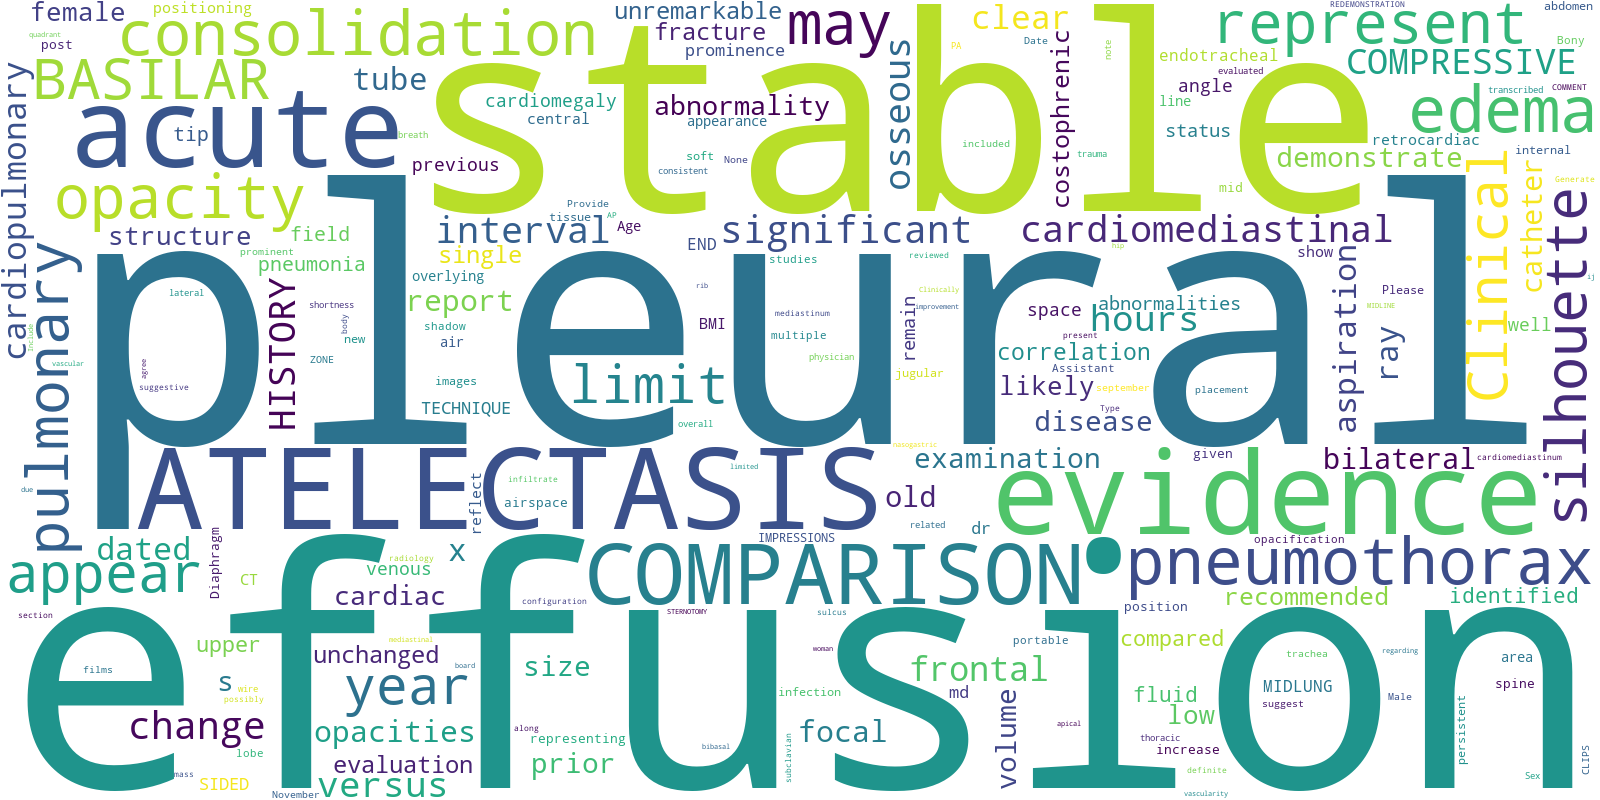
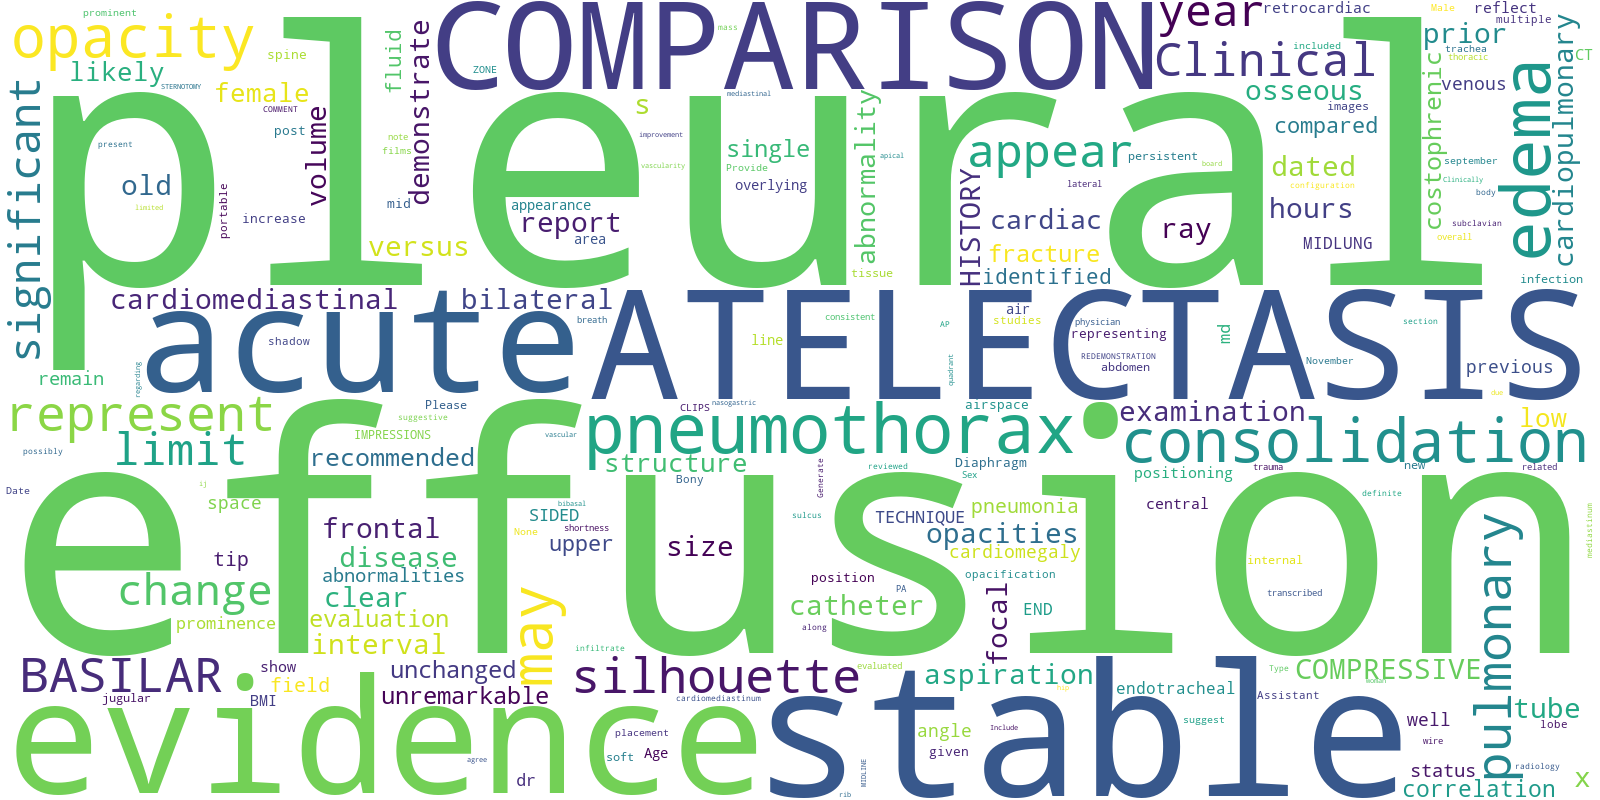
erros fixed

diff --git a/fast_api/susufDoctor_model.py b/fast_api/susufDoctor_model.py
@@ -1,7 +1,7 @@
 import os
-import requests
-import base64
+import torch
 import time
+from transformers import Idefics3ForConditionalGeneration, AutoProcessor
 from dotenv import load_dotenv
 
 from preprocessing import (
@@ -14,29 +14,48 @@ load_dotenv()
 
 HF_TOKEN = os.getenv("HF_TOKEN")
 MODEL_ID = os.getenv("MODEL_NAME", "Awinpang/smolvlm500-finetuned-xray")
-HF_API_URL = f"https://router.huggingface.co/hf-inference/models/{MODEL_ID}"
+
+_MODEL_CACHE = None
+_LOADING = False
 
 system_message = "You are an expert radiologist specialized in chest X-ray interpretation."
 
 
-def call_hf_inference(image_b64: str, prompt: str) -> dict:
-    """Call HuggingFace Inference API"""
-    headers = {"Authorization": f"Bearer {HF_TOKEN}"}
-    
-    payload = {
-        "inputs": {
-            "image": image_b64,
-            "text": prompt
-        }
-    }
-    
-    try:
-        response = requests.post(HF_API_URL, headers=headers, json=payload, timeout=120)
-        response.raise_for_status()
-        return response.json()
-    except requests.exceptions.RequestException as e:
-        return {"error": str(e)}
+# Load the model
+def load_model(token=HF_TOKEN):
+    global _MODEL_CACHE, _LOADING
 
+    if _MODEL_CACHE:
+        return _MODEL_CACHE
+
+    if _LOADING:
+        while _LOADING:
+            time.sleep(0.5)
+        return _MODEL_CACHE
+
+    try:
+        _LOADING = True
+        print("Loading SuSufDoctor model...")
+
+        model = Idefics3ForConditionalGeneration.from_pretrained(
+            MODEL_ID,
+            torch_dtype=torch.bfloat16,
+            device_map="auto",
+            token=token,
+        )
+
+        processor = AutoProcessor.from_pretrained(MODEL_ID, token=token)
+        model.eval()
+
+        _MODEL_CACHE = (processor, model)
+        print("Model ready.")
+        return _MODEL_CACHE
+
+    finally:
+        _LOADING = False
+
+
+# BUILD PROMPT
 
 def build_prompt(prior_text, age, sex, bmi, view_type):
     prior_clean = prior_text.strip() if prior_text.strip() else "No prior study available."
@@ -68,8 +87,9 @@ IMPRESSION:
 """.strip()
 
 
-# Inference via HuggingFace API
+#Inference
 def predict_report(
+    model_bundle,
     image,
     prior_text="",
     bmi="unknown",
@@ -80,9 +100,9 @@ def predict_report(
     temperature=0.3,
     top_p=0.8,
 ):
-    """Generate radiology report using HuggingFace Inference API"""
-    
-    print("Running SuSufDoctor inference via HF API...")
+    processor, model = model_bundle
+
+    print(" Running SuSufDoctor inference...")
     start = time.time()
 
     # Clean prior report
@@ -91,39 +111,60 @@ def predict_report(
 
     # Build prompt
     prompt = build_prompt(prior_text, age, sex, bmi, view_type)
-    
-    # Convert image to base64
-    if isinstance(image, bytes):
-        image_b64 = base64.b64encode(image).decode('utf-8')
-    else:
-        # If PIL Image, convert to bytes first
-        from io import BytesIO
-        buffer = BytesIO()
-        image.save(buffer, format="PNG")
-        image_b64 = base64.b64encode(buffer.getvalue()).decode('utf-8')
 
-    # Call HuggingFace API
-    result = call_hf_inference(image_b64, prompt)
-    
-    if "error" in result:
-        return {
-            "full_text": f"Error: {result['error']}",
-            "raw": result.get('error', 'Unknown error'),
-            "mode": "error"
-        }
-    
-    # Extract generated text
-    if isinstance(result, list) and len(result) > 0:
-        raw = result[0].get("generated_text", "")
-    else:
-        raw = result.get("generated_text", "")
-    
-    # Apply preprocessing
+    messages = [
+        {
+            "role": "system",
+            "content": [{"type": "text", "text": system_message}],
+        },
+        {
+            "role": "user",
+            "content": [
+                {"type": "text", "text": prompt},
+                {"type": "image", "image": image},   
+            ],
+        },
+    ]
+
+    # Chat template 
+    prompt_text = processor.apply_chat_template(
+        messages,
+        add_generation_prompt=True,
+        tokenize=False,
+    )
+
+    # Convert to tensors
+    inputs = processor(
+        text=prompt_text,
+        images=[image],  
+        return_tensors="pt",
+        padding=True,
+    ).to(model.device)
+
+    # Generate
+    with torch.no_grad():
+        output_ids = model.generate(
+            **inputs,
+            max_new_tokens=max_new_tokens,
+            temperature=temperature,
+            do_sample=True,
+            top_p=top_p,
+            top_k=50,
+            repetition_penalty=1.18,
+            pad_token_id=processor.tokenizer.eos_token_id,
+            eos_token_id=processor.tokenizer.eos_token_id,
+        )
+
+    # Decode new tokens only
+    prompt_len = inputs["input_ids"].shape[1]
+    new_tokens = output_ids[0, prompt_len:]
+    raw = processor.decode(new_tokens, skip_special_tokens=True).strip()
+
+    # Cleanup
     cleaned = clean_generated_report(raw)
     cleaned = fix_clinical_phrasing(cleaned)
 
-    elapsed = time.time() - start
-    print(f"Done in {elapsed:.1f}s — length: {len(cleaned)} chars")
+    print(f"Done in {time.time() - start:.1f}s — length: {len(cleaned)} chars")
 
     return {
         "full_text": cleaned,

diff --git a/fast_api/main.py b/fast_api/main.py
@@ -4,7 +4,7 @@ from dotenv import load_dotenv
 import os
 
 from dependencies import initialize_gcloud
-from routers import auth_routes, predict_routes, patient_routes, analytics_routes, predict_ws
+from routers import auth_routes, predict_routes, patient_routes, analytics_routes,predict_ws
 
 
 # Load environment variables first
@@ -55,34 +55,35 @@ async def health_check():
 
 @app.on_event("startup")
 async def startup_event():
-    print("=" * 60)
     print("Starting up SuSufDoctor API...")
     print(f"Allowed Origins: {origins}")
-    print("✓ Using HuggingFace Inference API (no local model loading)")
-    print("=" * 60)
-    
-    # Initialize Google Cloud in background (optional)
+
+    # Initialize Google Cloud
     try:
-        print("Initializing Google Cloud in background...")
         initialize_gcloud()
-        print("✓ Google Cloud initialized successfully")
+        print("Google Cloud initialized successfully")
     except Exception as e:
-        print(f"⚠ Google Cloud init warning: {e}")
+        print(f"Google Cloud init warning: {e}")
+
+    # Pre-load ML model for performance
+    try:
+        from routers.predict_routes import get_model
+        print("Pre-loading ML model...")
+        model = get_model()
+        print("ML model loaded and cached successfully")
+    except Exception as e:
+        print(f"Model pre-load warning: {e}")
 
 
 # Register Routers
 app.include_router(auth_routes.router, tags=["Authentication"])
 app.include_router(predict_routes.router, tags=["Predictions"])
-app.include_router(predict_ws.router, tags=["Prediction WebSocket"])
+app.include_router(predict_ws.router, tags=["Prediction WebSocket"]) 
 app.include_router(patient_routes.router, tags=["Patients"])
 app.include_router(analytics_routes.router, tags=["Analytics"])
 
 
 if __name__ == "__main__":
     import uvicorn
-    print("=" * 50)
-    print("FastAPI app is starting up...")
-    print("=" * 50)
-    port = int(os.environ.get("PORT", 8080))
-    print(f"Listening on port {port}")
+    port = int(os.environ.get("PORT", 8000))
     uvicorn.run("main:app", host="0.0.0.0", port=port)

diff --git a/fast_api/routers/predict_routes.py b/fast_api/routers/predict_routes.py
@@ -4,25 +4,26 @@ from datetime import datetime
 from google.cloud import firestore, storage
 
 from dependencies import verify_token, get_firestore, get_storage_bucket
-from susufDoctor_model import predict_report
+from susufDoctor_model import load_model
 from services.new_report_service import handle_new_report_mode
 from services.edit_report_service import handle_edit_mode
 
 router = APIRouter(prefix="/predict", tags=["Prediction"])
 
+def get_model():
+    return load_model()
 
 @router.get("/health")
 async def health_check():
-    """Health check - no model loading needed with HF API"""
     try:
+        model_bundle = get_model()
         return {
             "status": "healthy",
-            "model": "HuggingFace Inference API",
+            "model_loaded": model_bundle is not None,
             "timestamp": datetime.now().isoformat()
         }
     except Exception as e:
         return JSONResponse({"status": "unhealthy", "error": str(e)}, status_code=500)
-
 
 @router.post("")
 async def predict(

diff --git a/fast_api/routers/predict_ws.py b/fast_api/routers/predict_ws.py
@@ -5,7 +5,9 @@ from datetime import datetime, timedelta
 from PIL import Image
 from fastapi import APIRouter, WebSocket, WebSocketDisconnect
 
+from routers.predict_routes import get_model
 from susufDoctor_model import predict_report
+
 from google.cloud import storage, firestore
 from utils.pdf_extract import extract_text_from_pdf
 
@@ -178,13 +180,15 @@ async def ws_predict(websocket: WebSocket):
                 prior_text = ""
 
         
-        # Run inference via HuggingFace API
+        # Run inference
         
         await websocket.send_json({"stage": "Generating clinical report…", "progress": 45})
 
+        model_bundle = get_model()
         try:
             result = await to_thread(
                 predict_report,
+                model_bundle,
                 image,
                 prior_text=prior_text,
                 bmi=patient_info.get("bmi"),

diff --git a/fast_api/services/new_report_service.py b/fast_api/services/new_report_service.py
@@ -4,7 +4,7 @@ from datetime import datetime
 from PIL import Image
 import io
 
-from susufDoctor_model import predict_report
+from susufDoctor_model import load_model, predict_report
 from utils.pdf_utils import create_proper_pdf
 from utils.pdf_extract import extract_text_from_pdf
 from utils.storage_utils import upload_to_bucket
@@ -33,13 +33,9 @@ async def handle_new_report_mode(
         pdf_bytes = await prior_report.read()
         prior_text = extract_text_from_pdf(pdf_bytes)
 
-    # Call HuggingFace Inference API (no model loading needed)
+    model_bundle = load_model()
     result = predict_report(
-        image, 
-        prior_text=prior_text, 
-        bmi=bmi, 
-        age=age, 
-        sex=sex,
+        model_bundle, image, prior_text=prior_text, bmi=bmi, age=age, sex=sex,
         view_type=view_type
     )
 
